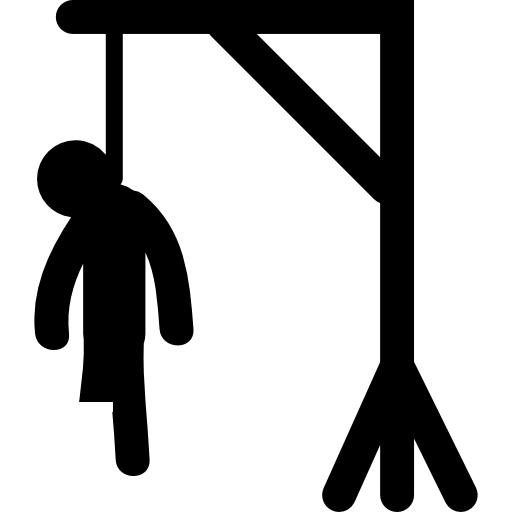
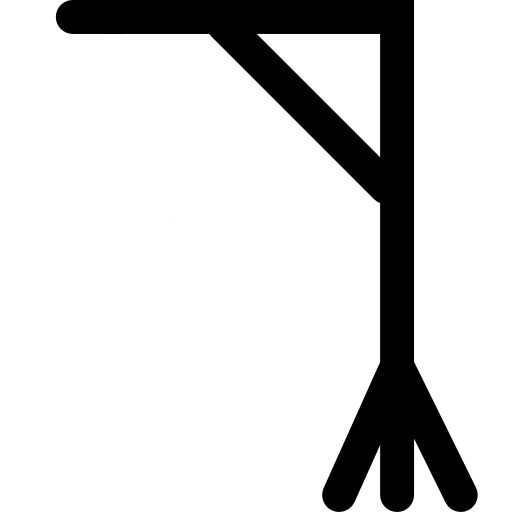
update

Changed region(s): [[0.0625, 0.0625, 0.4062, 0.9375]]

diff --git a/script.js b/script.js
@@ -1,3 +1,68 @@
 window.onload = () => {
-    
+    img = document.getElementById("img");
+    alphabet = document.querySelectorAll("#alphabet button");
+    reset = document.getElementById("reset");
+
+    newGame();
+
+    alphabet.forEach(element => {
+        element.addEventListener('click', checkLetter);
+    });
+
+    reset.addEventListener('click', newGame);
+}
+
+// Array with solutions
+var words = [
+    "elefante",
+    "computadora",
+    "programacion",
+    "javascript",
+    "teclado",
+    "guitarra",
+    "universidad",
+    "estudiante",
+    "telefono",
+    "planta",
+    "edificio",
+    "montaña",
+    "océano",
+    "avión",
+    "perro",
+    "gato",
+    "casa",
+    "jirafa",
+    "television",
+    "pelota"
+];
+
+var word = document.getElementById("word");
+var solution = "";
+var solutionVisible = "";
+
+// Starts the game
+function newGame(){
+    solution = words[Math.floor(Math.random()*words.length)];
+    setSolutionVisible();
+}
+
+// Print Low Bars depending the length of the solution
+function setSolutionVisible(){
+    for(let i=0; i<solution.length; i++){
+        solutionVisible += "_ ";
+    }
+}
+
+// Check the letter if it´s contained in the word, and if it´s true it would print in the world, otherwise it would call "wrongLetter"
+function checkLetter(e){
+    printWord();
+}
+
+function printWord(){
+    word.innerHTML = solutionVisible;
+}
+
+// Cross and disable the letter when is wrong, and update the image
+function wrongLetter(){
+
 }

diff --git a/index.html b/index.html
@@ -14,6 +14,37 @@
     </header>
     <main>
         <p>Use the alphabet below to guess the word, or click hint to get a clue</p>
+        <img src="img/9.png" alt="hangman" id="img">
+        <p id="word">_ _ _ _</p>
+        <div id="alphabet">
+            <button>A</button>
+            <button>B</button>
+            <button>C</button>
+            <button>D</button>
+            <button>E</button>
+            <button>F</button>
+            <button>G</button>
+            <button>H</button>
+            <button>I</button>
+            <button>J</button>
+            <button>K</button>
+            <button>L</button>
+            <button>M</button>
+            <button>N</button>
+            <button>O</button>
+            <button>P</button>
+            <button>Q</button>
+            <button>R</button>
+            <button>S</button>
+            <button>T</button>
+            <button>U</button>
+            <button>V</button>
+            <button>W</button>
+            <button>X</button>
+            <button>Y</button>
+            <button>Z</button>
+        </div>
+        <button id="reset">Reset</button>
     </main>
     <footer>
         <p>© Raúl González Díaz | 2023</p>
